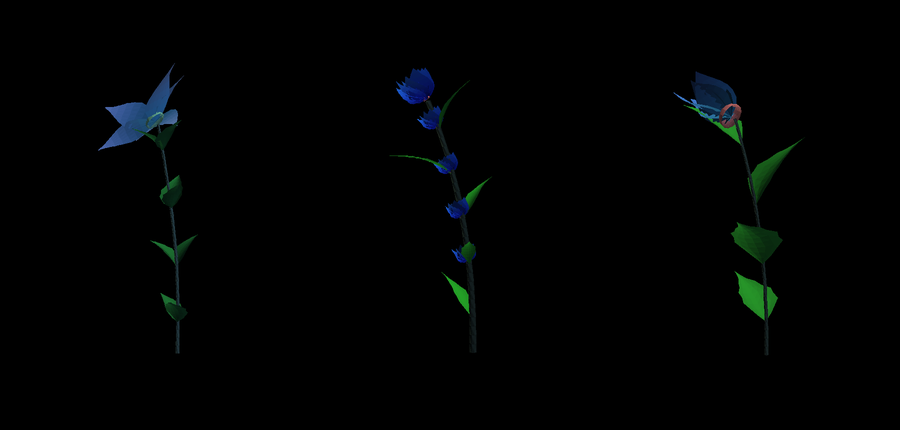
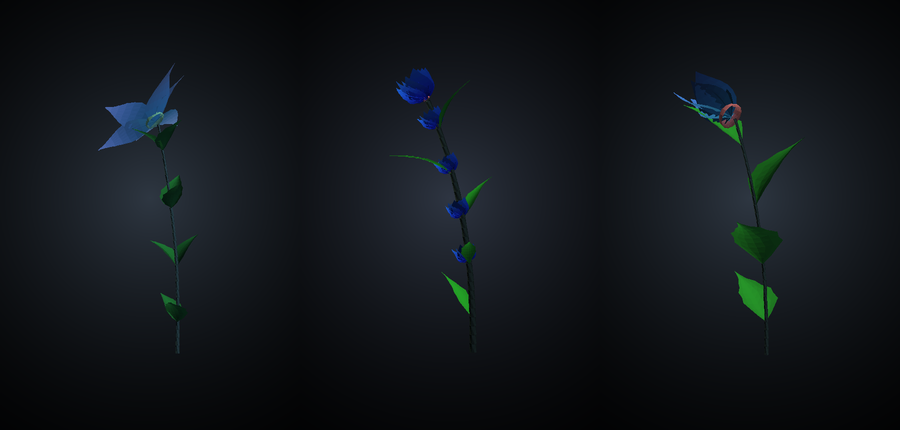
Stand each plant in a soft pool of light rather than flat black
Styled after the way botanical model kits are photographed for their
boxes: the plant in full colour and full focus, on black, with a soft
cool glow behind it falling away to nothing at the edges.

- StageBackdrop paints the ground in SwiftUI behind a transparent
  SCNView. A single image given to a SceneKit background is treated as a
  spherical environment map, so it would distort and swing around as the
  plant turns - the one thing a backdrop must not do.
- The falloff is spelled out over a dozen stops rather than left to a
  two-colour ramp, which bands visibly on an OLED screen in a dark room.
- The glow is tinted a little toward the plant's own petal hue, so each
  person's stage is quietly theirs. Tint is held at 12% and saturation
  at 30%: at the third I first tried, a magenta flower turned the whole
  screen violet and the backdrop stopped being a backdrop.
- The scene's ambient fill takes the same colour, so the plant reads as
  standing in that light rather than pasted onto it, and the key light
  is up a little so the plant stays the brightest thing by a margin.

Values were chosen by rendering variants through tools/preview and
comparing them, not by guessing; docs/images are regenerated.

Claude-Session: https://claude.ai/code/session_016YtYWFvsPDxDJBWcHD5rJ1

diff --git a/App/PeaceGarden/Rendering/StageBackdrop.swift b/App/PeaceGarden/Rendering/StageBackdrop.swift
@@ -1,0 +1,81 @@
+import SwiftUI
+import SeedCore
+
+/// The stage a plant stands on: black, with a soft pool of cool light behind it
+/// that falls away to nothing at the edges.
+///
+/// Taken from the way botanical model kits are photographed for their boxes —
+/// the subject in full colour and full focus, the ground giving it somewhere to
+/// be without competing for attention. The tint is nudged a little toward the
+/// plant's own colour, so each person's stage is quietly theirs without the
+/// backdrop ever becoming a thing you look at.
+struct StageBackdrop: View {
+    let palette: Genome.Palette
+
+    /// The cool slate of a photographic backdrop.
+    static let baseHue = 0.60
+    /// How far the glow moves toward the plant's own colour. Kept deliberately
+    /// small — at a third, a magenta flower turns the whole screen violet and
+    /// the backdrop stops being a backdrop.
+    static let tint = 0.12
+    static let saturation = 0.30
+    static let brightness = 0.26
+    /// Sits a little above centre, where the mass of a plant usually is.
+    static let centre = UnitPoint(x: 0.5, y: 0.46)
+    static let radiusFraction = 0.85
+    static let falloff = 2.0
+    static let stopCount = 12
+
+    var body: some View {
+        GeometryReader { proxy in
+            let span = max(proxy.size.width, proxy.size.height)
+            ZStack {
+                Color.black
+                RadialGradient(
+                    gradient: Gradient(stops: Self.stops(for: palette)),
+                    center: Self.centre,
+                    startRadius: 0,
+                    endRadius: span * Self.radiusFraction
+                )
+            }
+        }
+        .ignoresSafeArea()
+    }
+
+    /// The falloff is spelled out over a dozen stops rather than left to a
+    /// two-colour interpolation. A straight ramp between two near-black colours
+    /// bands visibly on an OLED screen in a dark room, which is exactly where
+    /// this app is going to be looked at.
+    static func stops(for palette: Genome.Palette) -> [Gradient.Stop] {
+        let hue = glowHue(for: palette)
+        return (0...stopCount).map { index in
+            let t = Double(index) / Double(stopCount)
+            let level = pow(1 - t, falloff)
+            return Gradient.Stop(
+                color: Color(hue: hue, saturation: saturation, brightness: brightness * level),
+                location: t
+            )
+        }
+    }
+
+    /// Blends the base slate toward the plant's petal hue the short way round
+    /// the wheel, so a red flower warms its light rather than detouring
+    /// through green to get there.
+    static func glowHue(for palette: Genome.Palette) -> Double {
+        var delta = palette.petalBase.hue - baseHue
+        if delta > 0.5 { delta -= 1 }
+        if delta < -0.5 { delta += 1 }
+        let hue = (baseHue + delta * tint).truncatingRemainder(dividingBy: 1)
+        return hue < 0 ? hue + 1 : hue
+    }
+
+    /// The same colour as a `UIColor`, for the lights inside the scene.
+    static func glowColour(for palette: Genome.Palette) -> UIColor {
+        UIColor(
+            hue: CGFloat(glowHue(for: palette)),
+            saturation: CGFloat(saturation),
+            brightness: CGFloat(brightness),
+            alpha: 1
+        )
+    }
+}

diff --git a/App/PeaceGarden/Rendering/PlantSceneBuilder.swift b/App/PeaceGarden/Rendering/PlantSceneBuilder.swift
@@ -78,17 +78,23 @@ enum PlantSceneBuilder {
 
     // MARK: - Scene
 
-    /// The stage: black, a warm key, a cool rim, and just enough fill that the
+    /// The lighting: a warm key, a cool rim, and just enough fill that the
     /// shadow side is dark rather than absent.
-    static func makeScene() -> SCNScene {
+    ///
+    /// The scene deliberately has no background of its own. The view behind it
+    /// is transparent, and `StageBackdrop` paints the pool of light — a
+    /// gradient is far cheaper and far more controllable in SwiftUI than as a
+    /// SceneKit environment, which would also swing around as the plant turns.
+    static func makeScene(palette: Genome.Palette) -> SCNScene {
         let scene = SCNScene()
-        scene.background.contents = UIColor.black
 
         let key = SCNNode()
         key.light = SCNLight()
         key.light?.type = .directional
         key.light?.color = UIColor(white: 1.0, alpha: 1)
-        key.light?.intensity = 900
+        // The plant is the brightest thing on screen by a wide margin; the
+        // backdrop only gives it somewhere to stand.
+        key.light?.intensity = 1050
         key.light?.castsShadow = false
         key.eulerAngles = SCNVector3(-0.6, 0.7, 0)
         scene.rootNode.addChildNode(key)
@@ -101,11 +107,13 @@ enum PlantSceneBuilder {
         rim.eulerAngles = SCNVector3(-0.2, 3.5, 0)
         scene.rootNode.addChildNode(rim)
 
+        // The fill is tinted to the backdrop's own colour, so the plant reads
+        // as standing in that light rather than cut out and pasted onto it.
         let fill = SCNNode()
         fill.light = SCNLight()
         fill.light?.type = .ambient
-        fill.light?.color = UIColor(red: 0.16, green: 0.18, blue: 0.24, alpha: 1)
-        fill.light?.intensity = 260
+        fill.light?.color = StageBackdrop.glowColour(for: palette)
+        fill.light?.intensity = 300
         scene.rootNode.addChildNode(fill)
 
         return scene

diff --git a/App/PeaceGarden/Rendering/PlantThumbnail.swift b/App/PeaceGarden/Rendering/PlantThumbnail.swift
@@ -16,7 +16,7 @@ struct PlantThumbnail: View {
 
     var body: some View {
         ZStack {
-            Color.black
+            StageBackdrop(palette: genome.palette)
             if let image {
                 Image(uiImage: image)
                     .resizable()
@@ -52,8 +52,12 @@ final class ThumbnailRenderer {
         if let cached = cache.object(forKey: key) { return cached }
 
         let view = SCNView(frame: CGRect(x: 0, y: 0, width: size, height: size))
-        view.scene = PlantSceneBuilder.makeScene()
-        view.backgroundColor = .black
+        view.scene = PlantSceneBuilder.makeScene(palette: genome.palette)
+        // Snapshotted with transparency so the tile's own backdrop shows
+        // through. If a thumbnail ever comes back as a black square, this is
+        // the pair of lines that did it.
+        view.backgroundColor = .clear
+        view.isOpaque = false
         view.antialiasingMode = .multisampling4X
 
         let mesh = PlantBuilder(genome: genome).mesh(growth: growth)

diff --git a/App/PeaceGarden/Views/Chrome.swift b/App/PeaceGarden/Views/Chrome.swift
@@ -2,9 +2,10 @@ import SwiftUI
 
 /// The app's whole visual vocabulary, in one place.
 ///
-/// Everything is thin, letterspaced and slightly transparent, sitting on black
-/// so the plant is the only saturated thing on screen. Controls are quiet
-/// enough to disappear and be forgotten between taps.
+/// Everything is thin, letterspaced and slightly transparent, sitting on the
+/// near-black of `StageBackdrop` so the plant is the only saturated thing on
+/// screen. Controls are quiet enough to disappear and be forgotten between
+/// taps.
 enum Chrome {
     static let ink = Color.white
     static let muted = Color.white.opacity(0.55)

diff --git a/App/PeaceGarden/Rendering/PlantSceneView.swift b/App/PeaceGarden/Rendering/PlantSceneView.swift
@@ -20,8 +20,10 @@ struct PlantSceneView: UIViewRepresentable {
 
     func makeUIView(context: Context) -> SCNView {
         let view = SCNView()
-        view.scene = PlantSceneBuilder.makeScene()
-        view.backgroundColor = .black
+        view.scene = PlantSceneBuilder.makeScene(palette: genome.palette)
+        // Transparent: `StageBackdrop` behind this view paints the ground.
+        view.backgroundColor = .clear
+        view.isOpaque = false
         view.antialiasingMode = .multisampling4X
         view.preferredFramesPerSecond = 60
         view.rendersContinuously = false

diff --git a/App/PeaceGarden/Views/PlantStageView.swift b/App/PeaceGarden/Views/PlantStageView.swift
@@ -16,9 +16,10 @@ struct PlantStageView: View {
 
     var body: some View {
         ZStack {
-            Color.black.ignoresSafeArea()
-
             if let identity = model.identity {
+                StageBackdrop(palette: identity.genome.palette)
+                    .ignoresSafeArea()
+
                 let growth = model.growth(for: identity.genome, birth: identity.birth)
 
                 PlantSceneView(

diff --git a/App/PeaceGarden/Views/ExchangeView.swift b/App/PeaceGarden/Views/ExchangeView.swift
@@ -92,6 +92,7 @@ struct ExchangeView: View {
 
         return VStack(spacing: 0) {
             PlantSceneView(genome: genome, growth: preview, autoRotates: true)
+                .background(StageBackdrop(palette: genome.palette))
                 .ignoresSafeArea(edges: .top)
 
             VStack(spacing: 10) {

diff --git a/App/PeaceGarden/Views/PlantDetailView.swift b/App/PeaceGarden/Views/PlantDetailView.swift
@@ -13,7 +13,8 @@ struct PlantDetailView: View {
 
     var body: some View {
         ZStack {
-            Color.black.ignoresSafeArea()
+            StageBackdrop(palette: record.genome.palette)
+                .ignoresSafeArea()
 
             PlantSceneView(
                 genome: record.genome,

diff --git a/tools/preview/preview.py b/tools/preview/preview.py
@@ -48,6 +48,42 @@ def shade(role, colour_hsb, normal, glow):
     return np.clip(lit, 0, 1)
 
 
+# The stage: a black ground with a soft, cool pool of light behind the plant,
+# falling off to pure black at the edges. Mirrors StageBackdrop.swift.
+BACKDROP_BASE_HUE = 0.60
+BACKDROP_TINT = 0.12
+BACKDROP_SATURATION = 0.30
+BACKDROP_BRIGHTNESS = 0.26
+BACKDROP_CENTRE = (0.5, 0.46)
+BACKDROP_RADIUS = 0.85
+BACKDROP_FALLOFF = 2.0
+
+
+def backdrop_hue(palette):
+    """Cool slate, nudged toward the plant's own colour so each stage is its own."""
+    base, petal = BACKDROP_BASE_HUE, palette["petalBase"][0]
+    delta = petal - base
+    if delta > 0.5:
+        delta -= 1
+    if delta < -0.5:
+        delta += 1
+    return (base + delta * BACKDROP_TINT) % 1.0
+
+
+def draw_backdrop(image, palette):
+    width, height = image.size
+    glow = np.array(colorsys.hsv_to_rgb(backdrop_hue(palette),
+                                        BACKDROP_SATURATION, BACKDROP_BRIGHTNESS))
+    radius = max(width, height) * BACKDROP_RADIUS
+    cx, cy = width * BACKDROP_CENTRE[0], height * BACKDROP_CENTRE[1]
+
+    ys, xs = np.mgrid[0:height, 0:width]
+    distance = np.sqrt((xs - cx) ** 2 + (ys - cy) ** 2) / radius
+    falloff = np.clip(1.0 - distance, 0.0, 1.0) ** BACKDROP_FALLOFF
+    pixels = (falloff[:, :, None] * glow[None, None, :] * 255).astype(np.uint8)
+    image.paste(Image.fromarray(pixels, "RGB"), (0, 0))
+
+
 def render(genome, growth, size=(420, 620), yaw=0.55, pitch=0.08, supersample=2):
     parts = build_mesh(genome, growth)
     if not parts:
@@ -103,6 +139,7 @@ def render(genome, growth, size=(420, 620), yaw=0.55, pitch=0.08, supersample=2)
     triangles.sort(key=lambda item: item[0])
 
     image = Image.new("RGB", (width, height), (0, 0, 0))
+    draw_backdrop(image, genome.palette)
     draw = ImageDraw.Draw(image)
     for _, role, screen, normal, v in triangles:
         colour = shade(role, ramp_colour(role, v, genome.palette), normal, genome.glow)

diff --git a/docs/ARCHITECTURE.md b/docs/ARCHITECTURE.md
@@ -52,7 +52,7 @@ derivation be tested without a device.
 | Area | What it does |
 | --- | --- |
 | `GardenModel` | The observable state: identity, kept plants, and a slow clock |
-| `Rendering` | `PlantMesh` to SceneKit; the lighting rig; thumbnails |
+| `Rendering` | `PlantMesh` to SceneKit; the lighting rig; the stage; thumbnails |
 | `Exchange` | Multipeer session, the touch detector, the protocol state machine |
 | `Views` | Black screens with controls that appear on a tap |
 
@@ -93,6 +93,21 @@ Every surface in the plant is a parametric grid evaluated through one function,
 A tube, a leaf blade, a petal and a dome are the same code with different
 `point(u, v)`. One place to get the winding and the normals right instead of
 five.
+
+## Why the backdrop is SwiftUI and not the scene
+
+The pool of light behind the plant is a `RadialGradient` in SwiftUI, painted
+behind a transparent `SCNView`, rather than a SceneKit background.
+
+A single image handed to `scene.background.contents` is treated as a spherical
+environment map: it would distort, and it would swing around as the plant turns
+— exactly what a backdrop must not do. Screen-space is where a photographic
+backdrop belongs, it costs nothing to draw, and the falloff can be spelled out
+stop by stop, which is what keeps a near-black gradient from banding on an OLED
+screen in a dark room.
+
+The scene's ambient fill is tinted to the same colour, so the plant reads as
+standing in that light rather than cut out and pasted onto it.
 
 ## Why growth is a function of time, not a state machine
 

diff --git a/README.md b/README.md
@@ -5,9 +5,10 @@ for one person — and where two people who meet in person can cross their seeds
 by touching their phones together, growing a plant that neither could have grown
 alone.
 
-The plant is the only thing on screen. Black background, full-colour 3-D plant
-you can turn with a finger, and controls that appear when you tap and see
-themselves out again.
+The plant is the only thing on screen. It stands in a soft pool of cool light
+on black — the way a botanical model kit is photographed for its box — in full
+colour and full focus, turned with a finger, with controls that appear when you
+tap and see themselves out again.
 
 **This is phase 1: the seed, and the meeting.** The shared peace garden with
 other people's plots and guest books is phase 2, sketched in
@@ -23,6 +24,9 @@ other people's plots and guest books is phase 2, sketched in
   fern, orchid, lotus, thistle, vine, bell, star, poppy, succulent, plume),
   around sixty inherited traits, procedural geometry, a colour palette, and a
   binomial name.
+- **A stage, not a void.** Black ground, a soft radial glow behind the plant
+  falling away to nothing at the edges, tinted a few percent toward the plant's
+  own colour so each person's stage is quietly theirs.
 - **Real-time growth.** Germinating, seedling, growing, in bud, in bloom,
   mature, over days — plus a day/night rhythm, so a flower that opens by day is
   closed at two in the morning.

diff --git a/docs/PHASES.md b/docs/PHASES.md
@@ -8,8 +8,8 @@ Built:
   of the moment it was drawn.
 - A plant derived from that seed: shape, colour, name, pace, all of it.
 - Growth in real time, over days, including opening by day or by night.
-- 3-D rendering in full colour on black, turned by dragging, with controls that
-  appear on a tap and see themselves out.
+- 3-D rendering in full colour, standing in a soft pool of light on black,
+  turned by dragging, with controls that appear on a tap and see themselves out.
 - A face-to-face exchange between two iPhones: find each other, tap the phones
   together, cross the seeds, agree on the result, and grow a hybrid that
   descends visibly from both parents.
